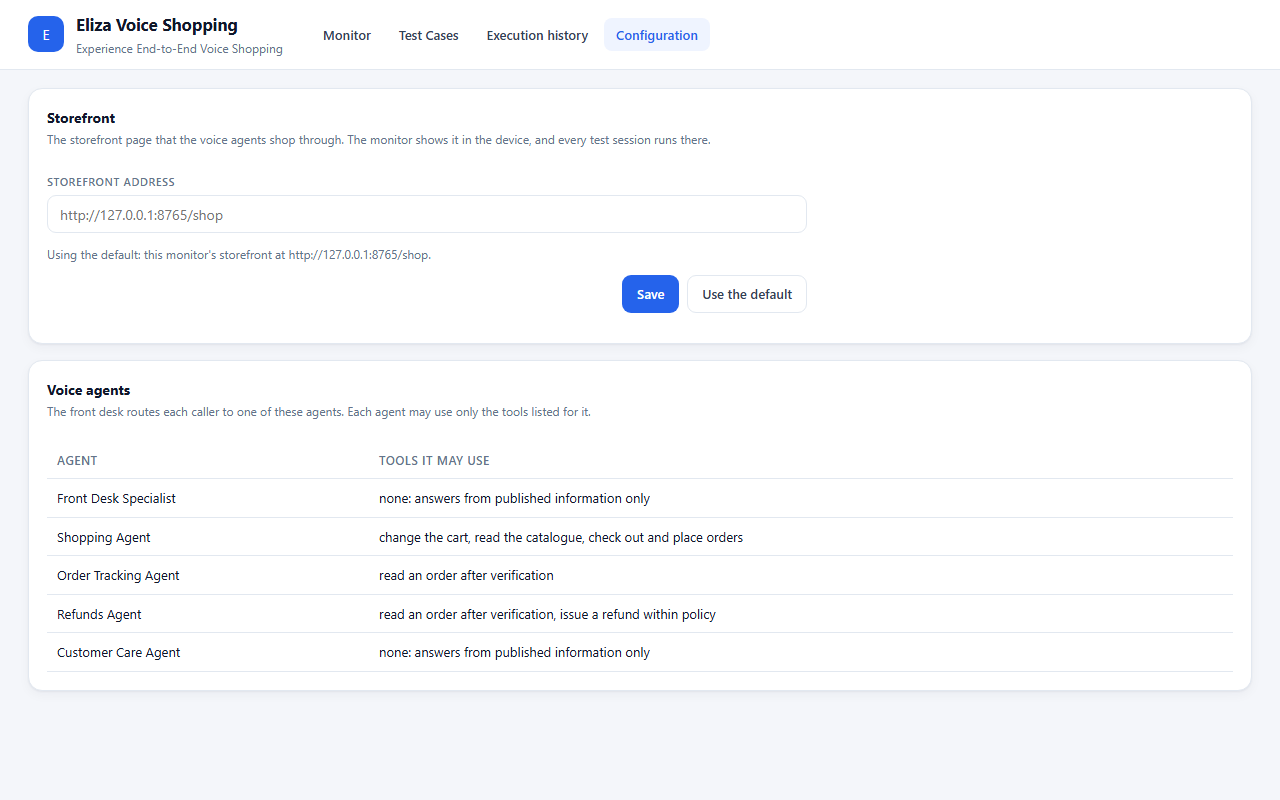
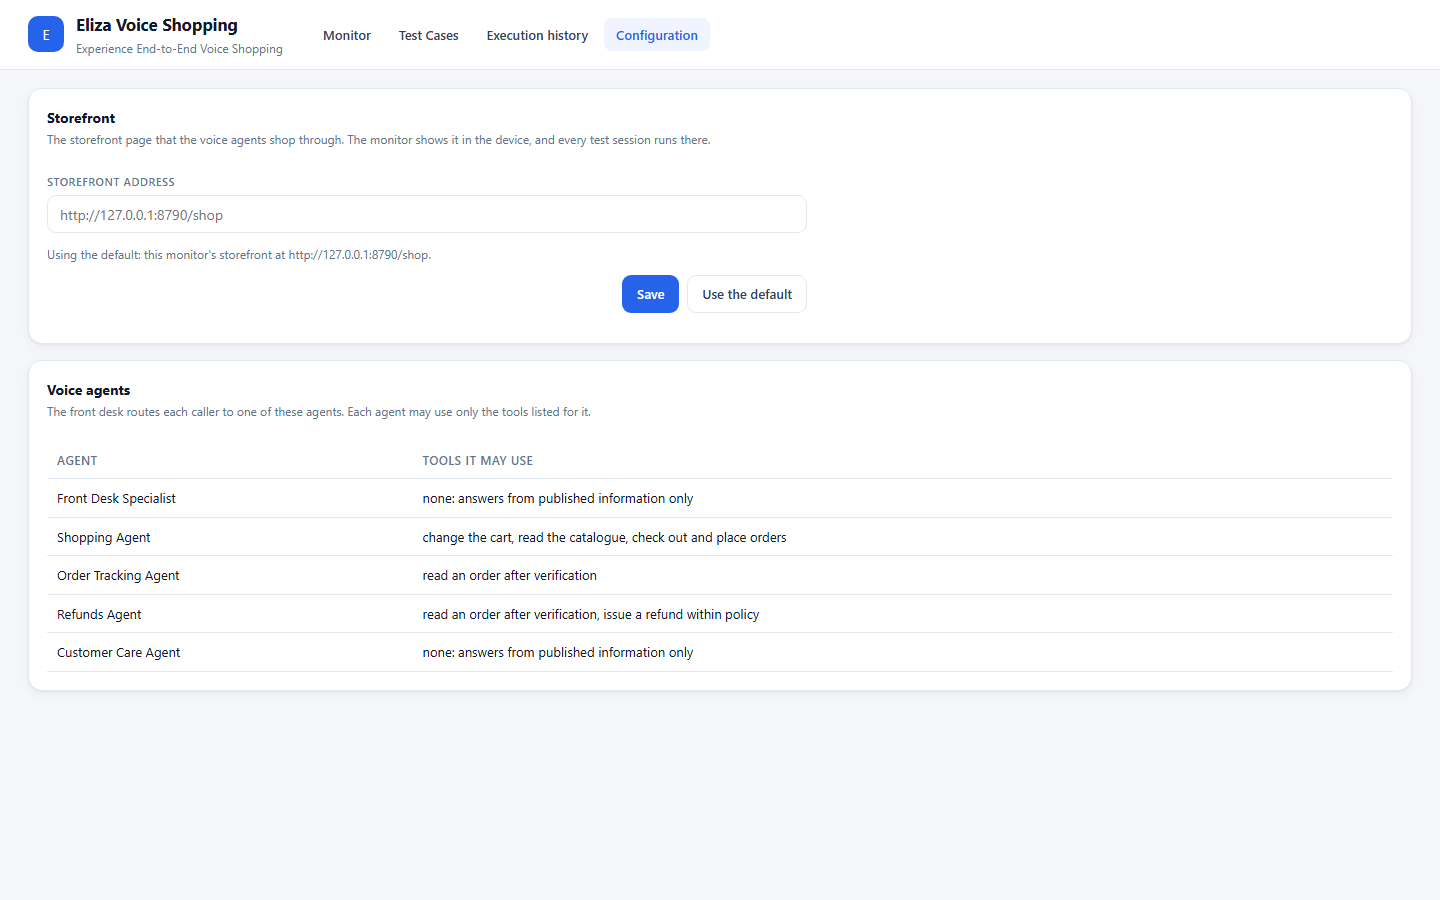
docs: current screenshots, Mermaid architecture diagram, and a capabilities list
Screenshots are taken from a clean monitor after the full regression. The architecture
diagram is Mermaid, so GitHub renders it. The capabilities section states what is
covered and what is not. The architecture text now says the default router is
rules-based, with an optional Gemini router.

diff --git a/README.md b/README.md
@@ -30,6 +30,27 @@ Read the [case study](docs/case-study.md) for the design decisions and what fail
 - **Speech checks** (optional): caller audio is generated, transcribed with Gemini, and the transcript is routed by the front desk.
 - **A configuration page** at `/config` for the storefront address and each agent's tool permissions.
 
+## Capabilities
+
+What the project covers, and what it does not.
+
+| Area | What is covered |
+|---|---|
+| **Conversations** | Four specialist agents (Shopping, Order Tracking, Refunds, Customer Care) behind a Front Desk router: routing, handoffs, identity checks, refund read-back and confirmation, repair after misunderstanding, and storefront sessions shared with the caller's voice session. |
+| **Test types** | Smoke (1 case), Targeted regression (3), Full regression (74), Barge-in (12, through the real agents), and a Barge-in test (1). Every test type runs from the monitor's dropdown, or from the `voiceshop eval` command for the regression tiers. |
+| **Red team** | 31 attack cases in six groups: prompt injection, data extraction, impersonation, social engineering, policy bypass, and abuse with off-topic requests. The gate allows no successful attack. |
+| **Checks** | 26 named checks, each reading evidence the agent cannot write itself: the transcript, the audit log and the store data. They cover routing, verification, refund policy and confirmation, cart and order consistency, guardrails, graceful failure, conduct, and barge-in. |
+| **Release gate** | Pass rate, no errors, no successful attack, latency budget, and a regression check against a saved baseline (`voiceshop regress`). |
+| **Barge-in** | A caller interrupts an agent's reply. The stop decision runs on the caller's real audio, and the agent's reply is judged as spoken and as heard. Real interruptions and backchannels are tested at three minimum-speech settings. |
+| **Speech** | A speech round trip for one case, with recognition through Gemini. Barge-in timing uses synthetic speech, generated locally. |
+| **Judge** | An LLM judge with rubric scores and a calibration set. The calibration labels are one author's and are not trusted until a second rater has labelled them. |
+| **Monitor** | A live UI with test runs, storefront playback, agent network, transcripts, execution history, configuration, and an API with audit records. |
+| **Security** | Named API keys with roles (viewer, operator, admin), hashed keys, rate limits, an append-only audit trail, sign-in to read transcripts, masking of card numbers, and 14-day transcript retention. |
+| **Operations** | Container image, compose file, TLS proxy example, Prometheus alert rules checked with `promtool`, service levels, and data-governance notes. |
+| **Quality of the project** | Lint, unit and integration tests with a coverage floor, a dependency audit, the evaluation tiers and the regression gate, and browser checks, all run in CI. |
+
+**Not covered yet:** real phone audio and echo, real caller speech at scale, a calibrated judge, authentication on the storefront (it is open by design for this demonstration), and any production deployment.
+
 ## Quick start
 
 Requires Python 3.11 or later. The runtime has no third-party dependencies.
@@ -121,26 +142,41 @@ The judge runs on a local model (Ollama) for plumbing and integration checks. Th
 
 ## Architecture
 
-```
-Caller (simulated, or audio through speech services)
-   │  heard text (background tags are added here)
-   ▼
-Front Desk Specialist — rules router, no model
-   │  driving hold · guardrails · routing by cues
-   ├─► Shopping Agent ──────┐
-   ├─► Order Tracking ──────┤──► Tool gateway ──► Store back office
-   ├─► Refunds Agent ───────┤     • scopes per agent (least privilege)
-   └─► Customer Care ───────┘     • audit log for every call
-                                  • idempotent refunds, versioned policy
-   │
-   ▼
-Storefront sessions: cart, page, orders, history of every version
-   ▲  shared by the caller's voice session and the monitor
-Monitor: storefront · agent network · transcript · test runs
+```mermaid
+flowchart LR
+    caller["Caller<br/>scripted goals, caller clips"]
+    subgraph agents["Store agents"]
+        fd["Front Desk<br/>rules router (default) or Gemini"]
+        shop["Shopping"]
+        orders["Order Tracking"]
+        refunds["Refunds"]
+        care["Customer Care<br/>no tools"]
+    end
+    gw["Tool gateway<br/>scopes per agent, audit trail"]
+    store[("Store back office<br/>catalogue, orders, refund ledger")]
+    barge["Barge-in timing<br/>caller audio, reply timeline"]
+    checks["Checks<br/>transcript, audit log, store data"]
+    gate{{"Release gate"}}
+    monitor["Monitor<br/>UI, API, history"]
+    db[("SQLite<br/>runs, turns, audit")]
+
+    caller -- "text, or audio via the barge-in test" --> fd
+    barge -- "cut point, words heard" --> fd
+    fd --> shop & orders & refunds
+    fd --> care
+    shop & orders & refunds --> gw
+    gw --> store
+    fd -- "transcript" --> checks
+    gw -- "audit entries" --> checks
+    store -- "end state" --> checks
+    checks --> gate
+    monitor -- "starts suites, shows results" --> caller
+    checks --> db
+    monitor --> db
 ```
 
 - **Agents never touch data directly.** Every action goes through the gateway, which checks the agent's scopes and writes the audit trail. Customer Care has no tools.
-- **Routing is rules-based on purpose.** It is predictable and testable. The router is not a language model.
+- **The default router is rules-based.** It is predictable and testable. An optional Gemini router chooses the team for each message, and it is measured in the same way.
 - **Refunds follow a versioned policy.** Refusals cite a rule ID and the policy version.
 - **Identity is checked before any order details are given.** The order number and the email on the order must match.
 - **Driving safety is strict.** Once a caller says they are driving, the voice channel gives no shopping, order or refund help until they say they have parked. Only the goodbye is still accepted.
